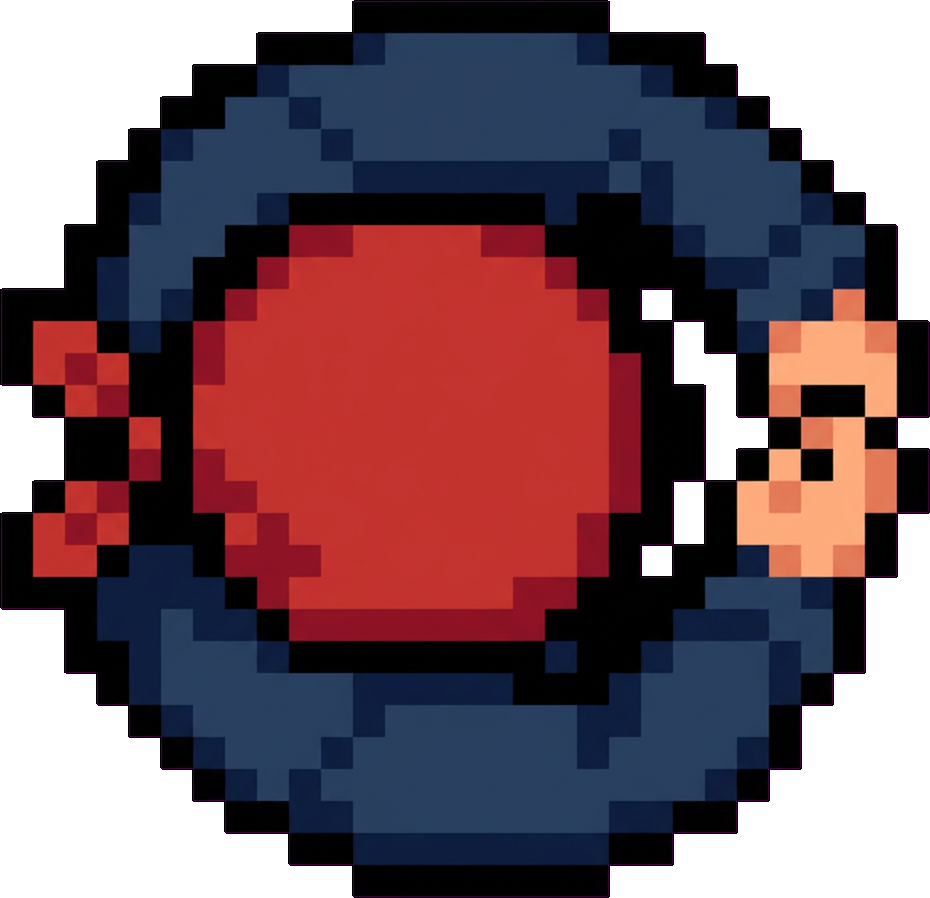
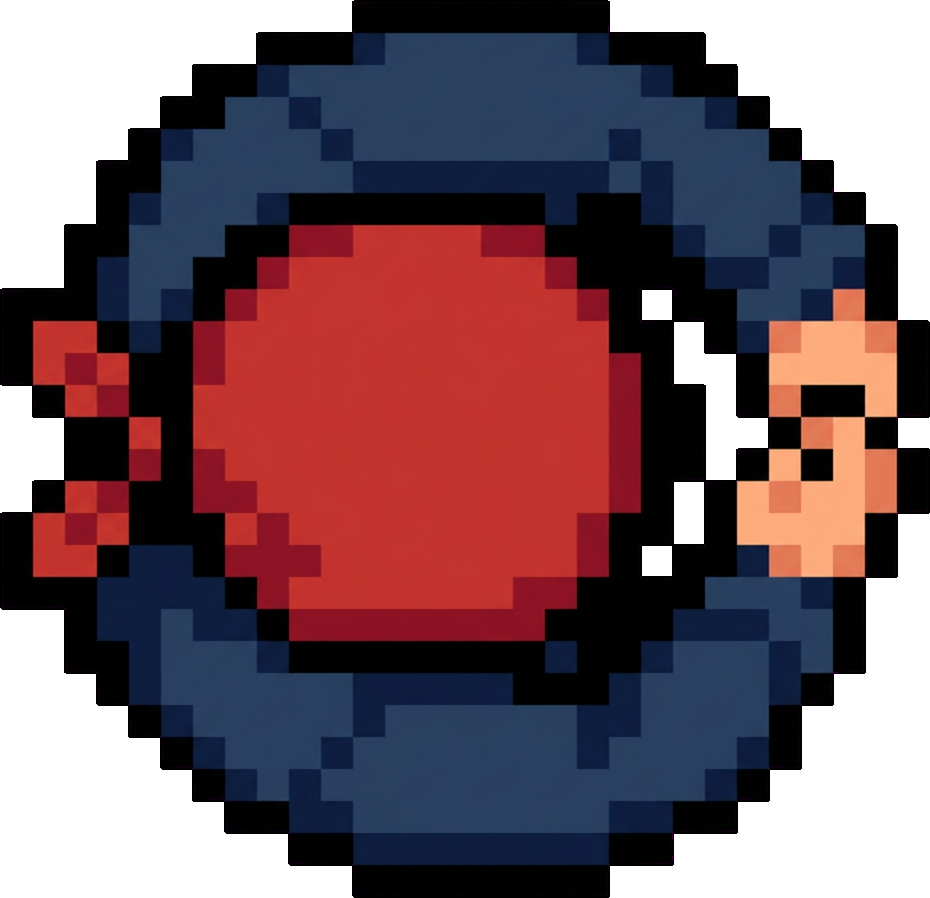
Approve navy player and top-down rifle; nudge grip and clean the outline
Mat picked the navy disc player and the boxy top-down rifle. Grip moves from
0.4 to 0.3 so more barrel clears the disc edge; the eject point stays on the
receiver. The player concept is re-keyed with a hue rule that turns any
magenta-leaning edge pixel into outline black, removing the purple fringe.

Changed region(s): [[0.3742, 0.9978, 0.6548, 1.0], [0.9978, 0.343, 1.0, 0.4677], [0.9978, 0.4989, 1.0, 0.5924]]

diff --git a/src/config/weapons.ts b/src/config/weapons.ts
@@ -38,7 +38,7 @@ export const WEAPONS = {
     id: "rifle",
     sprite: {
       path: "/sprites/weapon-rifle.png",
-      grip: { x: 0.4, y: 0.43 },
+      grip: { x: 0.3, y: 0.43 },
       muzzle: { x: 1, y: 0.43 },
       eject: { x: 0.52, y: 0.43 },
     },
